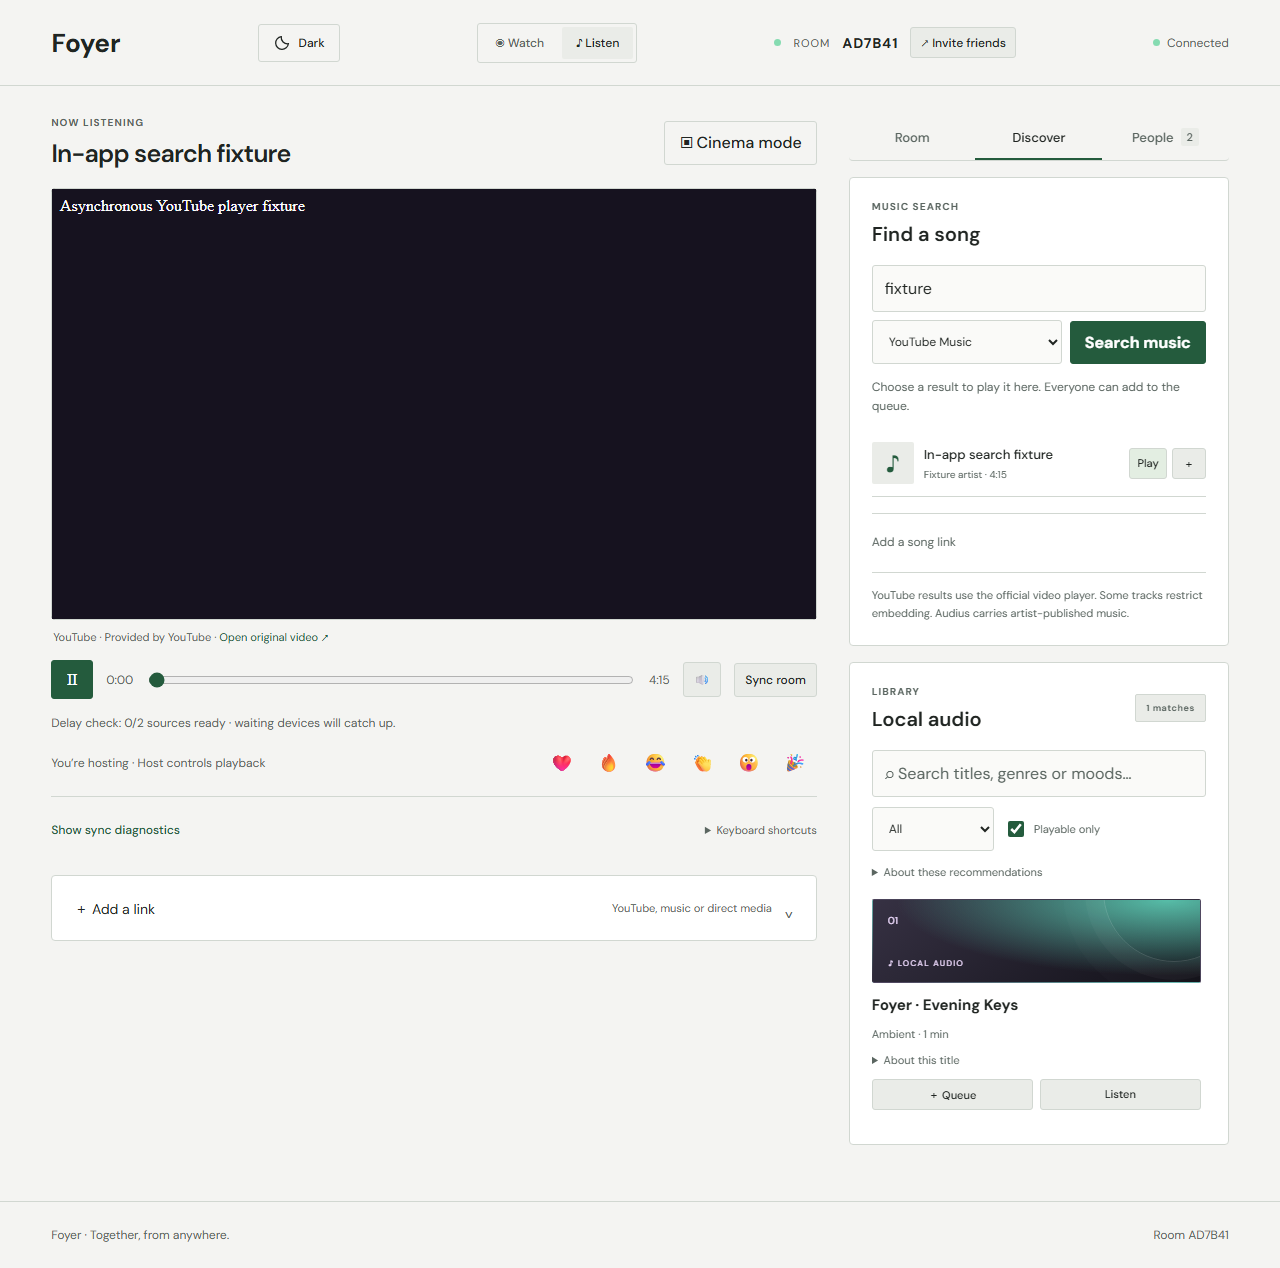
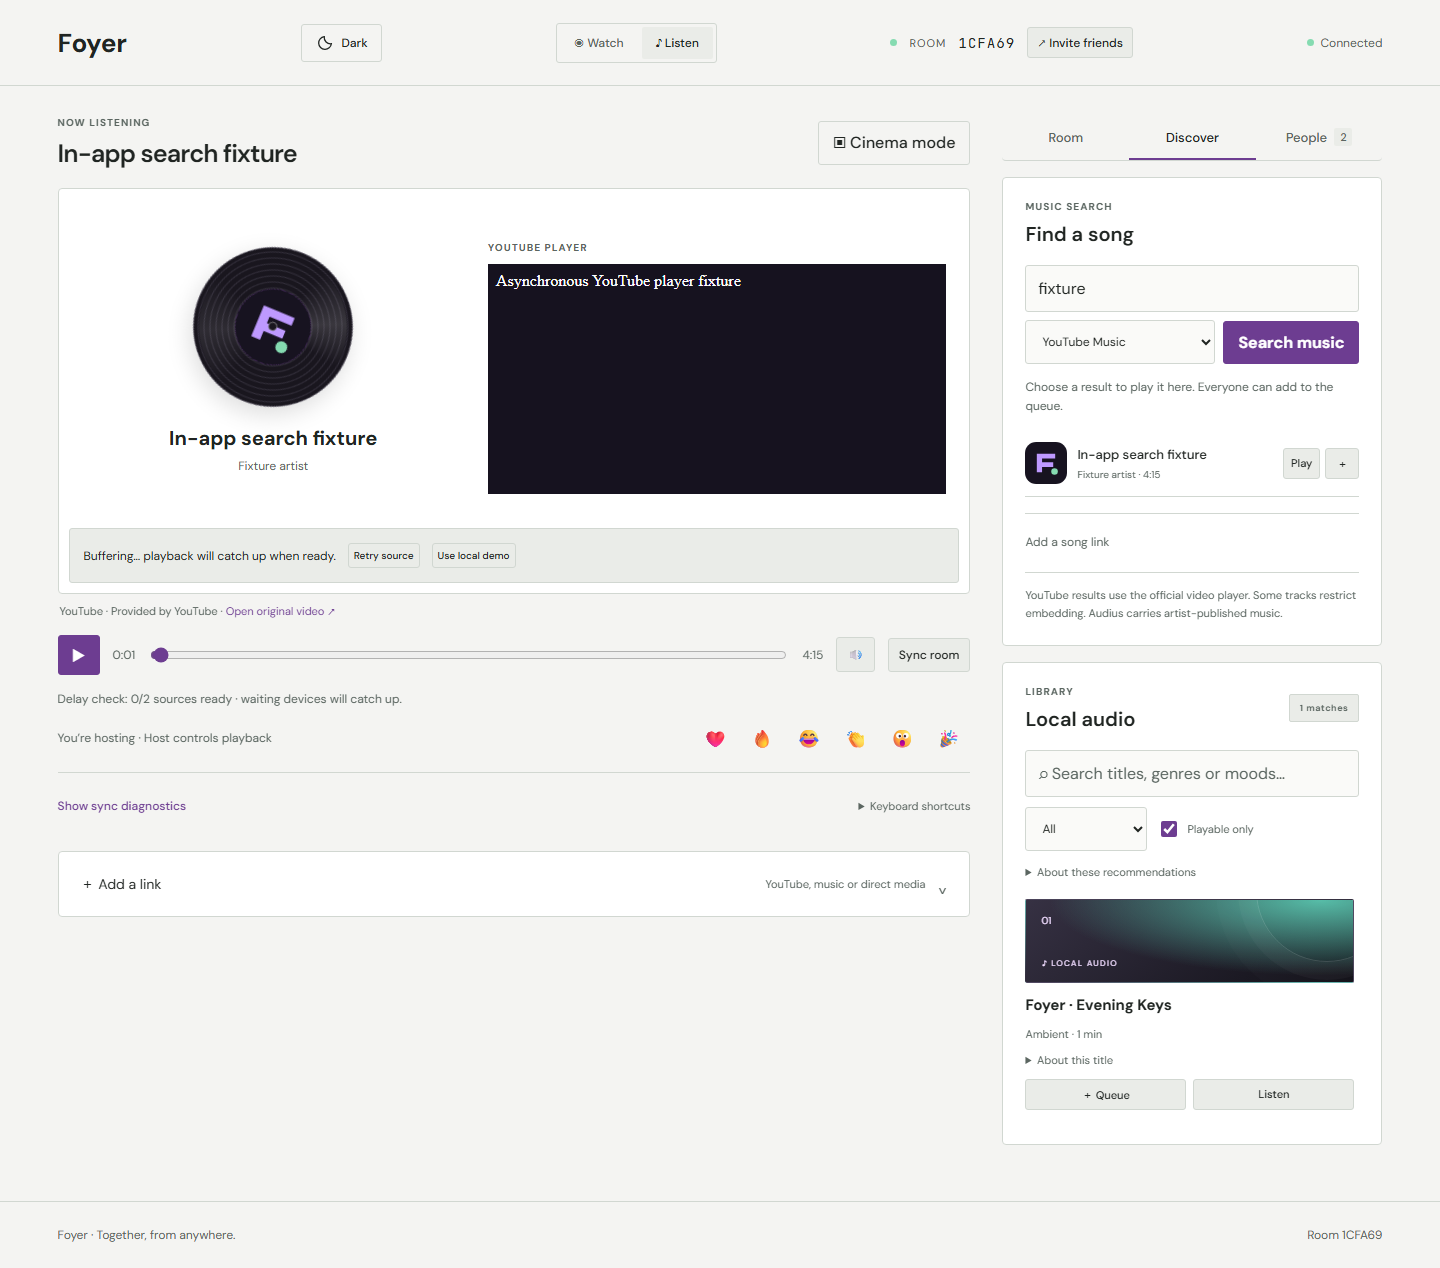
Show rotating thumbnail vinyl beside official player in Listen mode

diff --git a/src/design.css b/src/design.css
@@ -888,33 +888,132 @@ details,
 
 /* Bundled OFL font keeps invitation characters distinct on every device. */
 @font-face {
- font-family: "Foyer Code";
- src: url("/fonts/JetBrainsMono-Regular.woff2") format("woff2");
- font-weight: 400;
- font-style: normal;
- font-display: swap;
+  font-family: "Foyer Code";
+  src: url("/fonts/JetBrainsMono-Regular.woff2") format("woff2");
+  font-weight: 400;
+  font-style: normal;
+  font-display: swap;
 }
-.room-label strong, #room-code {
- font-family: "Foyer Code", Consolas, "SFMono-Regular", Menlo, monospace;
- font-weight: 400;
- font-variant-numeric: tabular-nums slashed-zero;
- font-feature-settings: "zero" 1;
- letter-spacing: 0.08em;
+.room-label strong,
+#room-code {
+  font-family: "Foyer Code", Consolas, "SFMono-Regular", Menlo, monospace;
+  font-weight: 400;
+  font-variant-numeric: tabular-nums slashed-zero;
+  font-feature-settings: "zero" 1;
+  letter-spacing: 0.08em;
 }
 
 .hero-title-line {
- display: inline-block;
- background: linear-gradient(110deg, #d5b4f0 35%, #f4e8ff 48%, #d5b4f0 61%);
- background-size: 240% 100%;
- background-clip: text;
- -webkit-background-clip: text;
- -webkit-text-fill-color: transparent;
- animation: headline-reveal 650ms cubic-bezier(.2,.7,.2,1) both, headline-shimmer 6s linear infinite;
+  display: inline-block;
+  background: linear-gradient(110deg, #d5b4f0 35%, #f4e8ff 48%, #d5b4f0 61%);
+  background-size: 240% 100%;
+  background-clip: text;
+  -webkit-background-clip: text;
+  -webkit-text-fill-color: transparent;
+  animation:
+    headline-reveal 650ms cubic-bezier(0.2, 0.7, 0.2, 1) both,
+    headline-shimmer 6s linear infinite;
 }
-.hero-title-line:last-child { animation-delay: 140ms, 140ms; }
-:root[data-theme="light"] .hero-title-line { background-image: linear-gradient(110deg, #643782 35%, #8b4da0 48%, #643782 61%); }
-@keyframes headline-reveal { from { opacity: 0; transform: translateY(14px); } to { opacity: 1; transform: translateY(0); } }
-@keyframes headline-shimmer { from { background-position: 120% 0; } to { background-position: -120% 0; } }
+.hero-title-line:last-child {
+  animation-delay: 140ms, 140ms;
+}
+:root[data-theme="light"] .hero-title-line {
+  background-image: linear-gradient(
+    110deg,
+    #643782 35%,
+    #8b4da0 48%,
+    #643782 61%
+  );
+}
+@keyframes headline-reveal {
+  from {
+    opacity: 0;
+    transform: translateY(14px);
+  }
+  to {
+    opacity: 1;
+    transform: translateY(0);
+  }
+}
+@keyframes headline-shimmer {
+  from {
+    background-position: 120% 0;
+  }
+  to {
+    background-position: -120% 0;
+  }
+}
 @media (prefers-reduced-motion: reduce) {
- .hero-title-line { animation: none; background: none; -webkit-text-fill-color: currentColor; }
+  .hero-title-line {
+    animation: none;
+    background: none;
+    -webkit-text-fill-color: currentColor;
+  }
+}
+
+.player:has(.provider-listen) {
+  aspect-ratio: auto;
+  min-height: 360px;
+  background: var(--surface);
+}
+.provider-listen {
+  display: grid;
+  grid-template-columns: minmax(160px, 1fr) minmax(240px, 1.2fr);
+  gap: 24px;
+  padding: 52px 24px 24px;
+  align-items: center;
+}
+.provider-listen-art {
+  display: flex;
+  flex-direction: column;
+  align-items: center;
+  text-align: center;
+  min-width: 0;
+}
+.provider-listen-art h2 {
+  color: var(--text);
+  font-size: 20px;
+  margin: 18px 0 6px;
+  overflow-wrap: anywhere;
+}
+.provider-listen-art p {
+  color: var(--muted);
+  font-size: 12px;
+}
+.provider-listen-art .listening-disc {
+  width: 160px;
+  height: 160px;
+}
+.provider-listen-player {
+  min-width: 0;
+}
+.provider-listen-player .eyebrow {
+  display: block;
+  margin-bottom: 10px;
+}
+.provider-listen-player .provider-frame {
+  position: relative;
+  inset: auto;
+  width: 100%;
+  height: 230px;
+  min-height: 200px;
+}
+.provider-listen-player iframe {
+  width: 100%;
+  height: 100%;
+  min-height: 200px;
+}
+@media (max-width: 700px) {
+  .provider-listen {
+    grid-template-columns: 1fr;
+    padding: 52px 16px 16px;
+    gap: 20px;
+  }
+  .provider-listen-art .listening-disc {
+    width: 120px;
+    height: 120px;
+  }
+  .provider-listen-player .provider-frame {
+    height: 220px;
+  }
 }

diff --git a/src/player/FoyerPlayer.tsx b/src/player/FoyerPlayer.tsx
@@ -28,6 +28,7 @@ type Props = {
   media: Movie;
   revision: number;
   muted: boolean;
+  listenMode?: boolean;
   onReady: () => void;
   onPlaying: () => void;
   onSeeked: () => void;
@@ -111,6 +112,25 @@ export const FoyerPlayer = forwardRef<PlaybackHandle, Props>(
       callbacks = useRef(props);
     const [discPlaying, setDiscPlaying] = useState(false);
     callbacks.current = props;
+    useEffect(() => {
+      if (
+        !props.listenMode ||
+        !["youtube", "vimeo", "soundcloud"].includes(props.media.provider || "")
+      )
+        return;
+      const timer = setInterval(() => {
+        const player = adapter.current;
+        setDiscPlaying(
+          Boolean(
+            player &&
+            !failed.current &&
+            !player.paused &&
+            player.readyState >= 2,
+          ),
+        );
+      }, 250);
+      return () => clearInterval(timer);
+    }, [props.listenMode, props.media.provider, props.revision]);
     const proxy = useMemo(
       () =>
         new Proxy({} as PlaybackHandle, {
@@ -671,6 +691,32 @@ export const FoyerPlayer = forwardRef<PlaybackHandle, Props>(
     }, [props.muted]);
     const m = props.media,
       p = m.provider || "direct";
+    const artwork =
+      m.artwork ||
+      (p === "youtube" && m.sourceId
+        ? `https://i.ytimg.com/vi/${m.sourceId}/hqdefault.jpg`
+        : undefined);
+    const disc = (
+      <div
+        className={`record-art listening-disc ${discPlaying ? "is-playing" : ""}`}
+        style={{ "--movie-color": m.color } as React.CSSProperties}
+      >
+        <div className="listening-disc-label">
+          {artwork ? (
+            <img
+              src={artwork}
+              alt=""
+              referrerPolicy="no-referrer"
+              onError={(e) => {
+                e.currentTarget.style.display = "none";
+              }}
+            />
+          ) : (
+            <span>♪</span>
+          )}
+        </div>
+      </div>
+    );
     if (m.kind === "empty")
       return (
         <div className="external-screen">
@@ -730,14 +776,32 @@ export const FoyerPlayer = forwardRef<PlaybackHandle, Props>(
           src={`https://w.soundcloud.com/player/?url=${encodeURIComponent(m.url!)}&auto_play=false&visual=true`}
         />
       );
-    if (["youtube", "vimeo"].includes(p))
-      return (
+    if (["youtube", "vimeo"].includes(p)) {
+      const embed = (
         <div
           ref={container}
           className="provider-frame"
           aria-label={`${p} player`}
         />
       );
+      if (props.listenMode)
+        return (
+          <div className="provider-listen">
+            <div className="provider-listen-art">
+              {disc}
+              <h2>{m.title}</h2>
+              <p>{m.artist || "Shared listening"}</p>
+            </div>
+            <div className="provider-listen-player">
+              <span className="eyebrow">
+                {p === "youtube" ? "YOUTUBE PLAYER" : "VIMEO PLAYER"}
+              </span>
+              {embed}
+            </div>
+          </div>
+        );
+      return embed;
+    }
     const events = {
       onLoadedMetadata: () => {
         if (failed.current) return;
@@ -776,25 +840,7 @@ export const FoyerPlayer = forwardRef<PlaybackHandle, Props>(
     if (m.kind === "audio")
       return (
         <div className="audio-screen">
-          <div
-            className={`record-art listening-disc ${discPlaying ? "is-playing" : ""}`}
-            style={{ "--movie-color": m.color } as React.CSSProperties}
-          >
-            <div className="listening-disc-label">
-              {m.artwork ? (
-                <img
-                  src={m.artwork}
-                  alt=""
-                  referrerPolicy="no-referrer"
-                  onError={(e) => {
-                    e.currentTarget.style.display = "none";
-                  }}
-                />
-              ) : (
-                <span>♪</span>
-              )}
-            </div>
-          </div>
+          {disc}
           <h2>{m.title}</h2>
           <p>{m.artist || "A listening room for your people"}</p>
           <span className="pill">

diff --git a/tests/browser/youtube.spec.ts b/tests/browser/youtube.spec.ts
@@ -580,6 +580,7 @@ test("in-app music search plays a selected result across the room without a new 
         kind: "video",
         title: "In-app search fixture",
         artist: "Fixture artist",
+        artwork: "/foyer.svg",
         duration: 255,
         genres: ["Music"],
         tags: [],
@@ -639,6 +640,39 @@ test("in-app music search plays a selected result across the room without a new 
       ).toBeVisible();
       await expect.poll(async () => (await fixtureState(page)).state).toBe(1);
     }
+    for (const page of [host, guest]) {
+      await expect(
+        page.locator(".provider-listen .listening-disc img"),
+      ).toHaveAttribute("src", "/foyer.svg");
+      await expect(page.locator(".listening-disc")).toHaveCSS(
+        "animation-play-state",
+        "running",
+      );
+      for (const width of [920, 320]) {
+        await page.setViewportSize({ width, height: 844 });
+        const bounds = await page
+          .locator(".provider-frame iframe")
+          .boundingBox();
+        expect(bounds!.width).toBeGreaterThanOrEqual(200);
+        expect(bounds!.height).toBeGreaterThanOrEqual(200);
+        expect(
+          await page.evaluate(
+            () => document.documentElement.scrollWidth <= innerWidth,
+          ),
+        ).toBe(true);
+      }
+    }
+    await host.getByRole("button", { name: "Pause", exact: true }).click();
+    for (const page of [host, guest])
+      await expect(page.locator(".listening-disc")).toHaveCSS(
+        "animation-play-state",
+        "paused",
+      );
+    await host.screenshot({
+      path: "evidence/youtube-disc-phone.png",
+      fullPage: true,
+    });
+    await host.setViewportSize({ width: 1440, height: 960 });
     expect(a.pages()).toHaveLength(1);
     expect(b.pages()).toHaveLength(1);
     expect(errors).toEqual([]);

diff --git a/src/main.tsx b/src/main.tsx
@@ -1185,6 +1185,7 @@ function App() {
                   media={room.media}
                   revision={room.mediaRevision}
                   muted={muted}
+                  listenMode={room.settings.mode === "listen"}
                   onProviderControl={(type, position) => {
                     const current = latest.current;
                     if (!current || !canControl) return false;

diff --git a/REQUIREMENTS.md b/REQUIREMENTS.md
@@ -110,3 +110,5 @@ New Watch rooms use `emptyWatch` in server/catalog.ts; server/engine.ts rejects 
 Purple theme hierarchy, light-mode poster illustration, real request-driven rolling-disc loader (`src/DiscLoader.tsx`), navigation transitions and reduced-motion support are verified in `tests/browser/visual-polish.spec.ts`. Phone/desktop snapshots are stored as `evidence/purple-*.png`; the loader also clears after failed invitations. Playback stays mounted during room-tool navigation.
 
 Native listening-player artwork: circular vinyl with thumbnail center spins on actual HTML5 playing events, pauses during buffering/paused/ended/error, and respects reduced motion. Verified in tests/browser/listening-disc.spec.ts with actual AAC playback and injected thumbnail metadata. Provider-owned iframe UI remains provider-controlled.
+
+YouTube/Vimeo in Listen mode: rotating thumbnail-center vinyl alongside the intact official player; Watch remains full video. Embedded players stay visible and at least200x200; mobile stacks the panels. Rotation follows actual SDK readiness and pause state. Enhanced two-client music search fixture in tests/browser/youtube.spec.ts checks artwork, play/pause rotation, player bounds and phone overflow. SDK fixtures verify Foyer integration rather than live provider availability.

diff --git a/PROGRESS.md b/PROGRESS.md
@@ -183,3 +183,6 @@ Scope: browser/phone emulation can reproduce Foyer-induced repeated seeks and fa
 ## Headline animation
 - Add staggered headline entrance and subtle theme-aware purple shimmer. Preserve accessible heading label and static text for reduced motion. Build and desktop/phone browser check next.
 - Headline runtime 7b66a49 deployed as dpl_7H6PBY21CutD512rkDiuwrTsEwUc. Build passes; local shimmer advancement, both themes, 320px fit and reduced-motion checked. Initial probe assumed dark default but OS-selected light; corrected theme selection and rerun passed. Live animation/reduced-motion checks pass; screenshots inspected.
+
+## YouTube Listen artwork layout
+- User clarified YouTube Music needs the disc too. Add primary rotating thumbnail disc beside an intact visible official player in Listen mode. Watch layout preserved; phone stacks both. Provider rotation follows actual adapter paused/readiness. Official minimum visible size200x200 documented at https://developers.google.com/youtube/player_parameters. Build and provider regression next.

diff --git a/README.md b/README.md
@@ -165,3 +165,5 @@ Watch rooms now open with an empty screen. Add a link or select a playable title
 Final empty-Watch verification: 60 unit/integration checks and 16 local browser checks pass. Current performance evidence and provider/network limitations are recorded in PERFORMANCE.md; tests choose the optional demo explicitly.
 
 The purple theme pairs a stronger Create action with a softer Join action and illustrated light-mode artwork. A rolling record marks actual connection/join/lazy-load requests without artificial delays. Room-tool transitions preserve playback; reduced-motion preferences disable these animations.
+
+YouTube songs in Listen mode show a vinyl with the song thumbnail in its center, alongside the visible official player and controls. On narrow screens they stack. YouTube remains an official embed; the application does not extract audio or conceal provider video.
